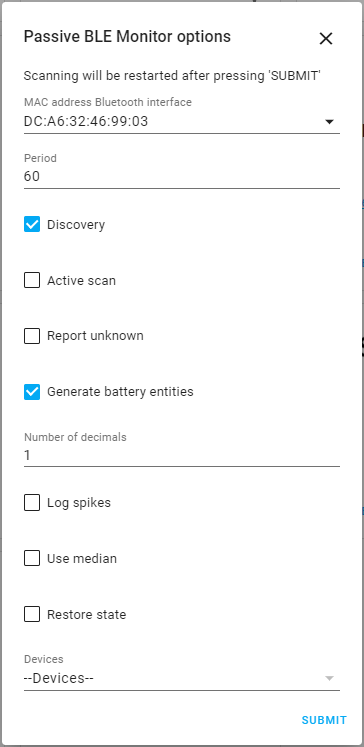
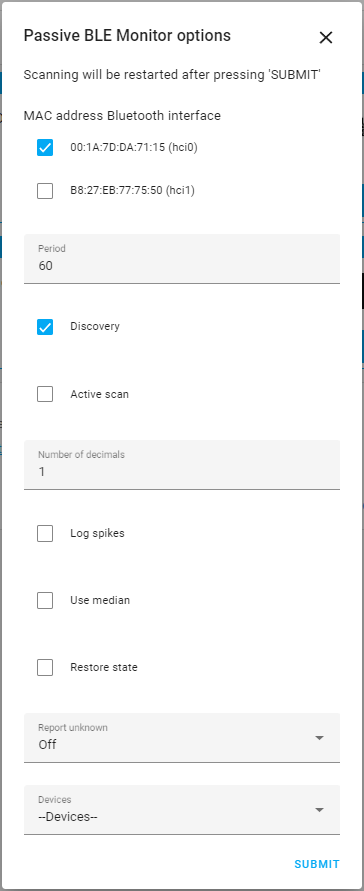
Show hci in UI

diff --git a/custom_components/ble_monitor/__init__.py b/custom_components/ble_monitor/__init__.py
@@ -74,7 +74,6 @@ from .const import (
 
 from .bt_helpers import (
     BT_INTERFACES,
-    BT_MAC_INTERFACES,
     BT_MULTI_SELECT,
     DEFAULT_BT_INTERFACE,
     reset_bluetooth
@@ -264,7 +263,7 @@ async def async_setup_entry(hass: HomeAssistant, config_entry: ConfigEntry):
         for key, value in CONFIG_YAML.items():
             config[key] = value
         _LOGGER.info(
-            "Available Bluetooth interfaces for BLE monitor: %s", BT_MAC_INTERFACES
+            "Available Bluetooth interfaces for BLE monitor: %s", list(BT_MULTI_SELECT.values())
         )
 
         if config[CONF_HCI_INTERFACE]:
@@ -506,8 +505,7 @@ class HCIdump(Thread):
 
         # prepare sensor whitelist to speedup parser
         if (
-            isinstance(self.config[CONF_DISCOVERY], bool)
-            and self.config[CONF_DISCOVERY] is False
+            isinstance(self.config[CONF_DISCOVERY], bool) and self.config[CONF_DISCOVERY] is False
         ):
             self.discovery = False
             if self.config[CONF_DEVICES]:

diff --git a/custom_components/ble_monitor/bt_helpers.py b/custom_components/ble_monitor/bt_helpers.py
@@ -216,19 +216,14 @@ def reset_bluetooth(hci):
 
 try:
     BT_INTERFACES = hci_get_mac([0, 1, 2, 3])
-    BT_HCI_INTERFACES = list(BT_INTERFACES.keys())
-    BT_MAC_INTERFACES = list(BT_INTERFACES.values())
     DEFAULT_BT_INTERFACE = list(BT_INTERFACES.items())[0][1]
     DEFAULT_HCI_INTERFACE = list(BT_INTERFACES.items())[0][0]
 except (IndexError, OSError, subprocess.CalledProcessError):
     BT_INTERFACES = {0: "00:00:00:00:00:00"}
     DEFAULT_BT_INTERFACE = "00:00:00:00:00:00"
     DEFAULT_HCI_INTERFACE = 0
-    BT_HCI_INTERFACES = [0]
-    BT_MAC_INTERFACES = ["00:00:00:00:00:00"]
     _LOGGER.debug(
         "No Bluetooth interface found. Make sure Bluetooth is installed on your system"
     )
-BT_MULTI_SELECT = {
-    mac: mac for mac in BT_MAC_INTERFACES
-}
+
+BT_MULTI_SELECT = dict([(v, v + ' (hci' + str(k) + ')') for k, v in BT_INTERFACES.items()])

diff --git a/docs/config_params.md b/docs/config_params.md
@@ -13,7 +13,7 @@ nav_order: 3
 
 ### bt_interface
 
-   (MAC address or list of multiple MAC addresses)(Optional) This parameter is used to select the Bluetooth-interface of your Home Assistant host. When using YAML, a list of available Bluetooth-interfaces available on your system is given in the Home Assistant log during startup of the Integration, when you enable the Home Assistant [logger at info-level](https://www.home-assistant.io/integrations/logger/). If you don't specify a MAC address, by default the first interface of the list will be used. If you want to use multiple interfaces, you can use the following configuration:
+   (MAC address or list of multiple MAC addresses)(Optional) This parameter is used to select the Bluetooth-interface of your Home Assistant host. When using YAML, a list of available Bluetooth-interfaces available on your system is given in the Home Assistant log during startup of the Integration, when you enable the Home Assistant [logger at info-level](https://www.home-assistant.io/integrations/logger/). In the UI, both the MAC address and the hci number will be shown. If you don't specify a MAC address, by default the first interface of the list will be used. If you want to use multiple interfaces in YAML, you can use the following configuration:
 
 ```yaml
 ble_monitor:
@@ -26,7 +26,7 @@ ble_monitor:
 
 ### hci_interface (YAML only)
 
-   (positive integer or list of positive integers)(Optional) Like the previous option `bt_interface`, this parameter is also used to select the bt-interface of your Home Assistant host. It is however strongly advised to use the `bt_interface` option and not this `hci_interface` option, as the hci number can change, e.g. when plugging in a dongle. However, due to backwards compatibility, this option is still available. Use 0 for hci0, 1 for hci1 and so on. On most systems, the interface is hci0. In addition, if you need to collect data from several interfaces, you can specify a list of interfaces:
+   (positive integer or list of positive integers)(Optional) Like the previous option `bt_interface`, this parameter can also be used to select the bt-interface of your Home Assistant host. It is however strongly advised to use the `bt_interface` option and not this `hci_interface` option, as the hci number can change, e.g. when plugging in a dongle. However, due to backwards compatibility, this option is still available. Use 0 for hci0, 1 for hci1 and so on. On most systems, the interface is hci0. In addition, if you need to collect data from several interfaces, you can specify a list of interfaces:
 
 ```yaml
 ble_monitor:
